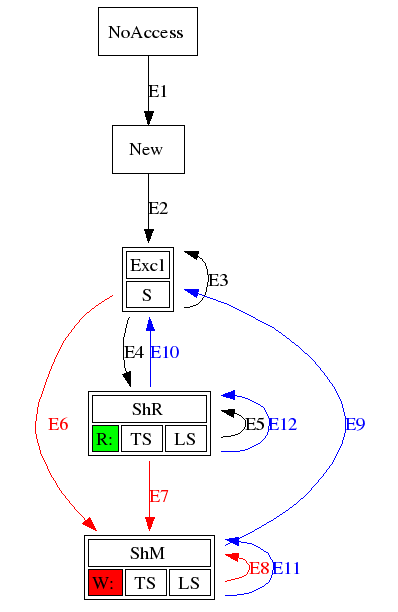
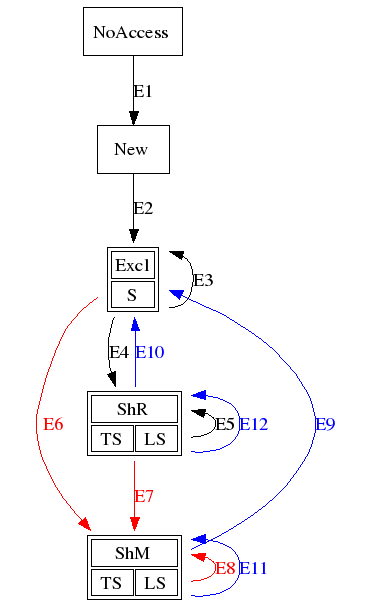
git-svn-id: http://data-race-test.googlecode.com/svn/trunk@122 93a3164d-3a44-0410-8ae5-4baa038b0729

diff --git a/helgrind/hg_main.c b/helgrind/hg_main.c
@@ -169,6 +169,9 @@ static Int  clo_trace_level = 0;
    SCE_{THREADS,LOCKS,BIGRANGE,ACCESS,LAOG}. */
 static Int clo_sanity_flags = 0;
 
+
+static Bool clo_use_msm_prop1 = False; // use prop1 memory state machine. 
+
 /* This has to do with printing error messages.  See comments on
    announce_threadset() and summarise_threadset().  Perhaps it
    should be a command line option. */
@@ -581,6 +584,7 @@ static WordFM* map_locks = NULL; /* WordFM LockAddr Lock* */
 
 /* The word-set universes for thread sets and lock sets. */
 static WordSetU* univ_tsets = NULL; /* sets of Thread* */
+static WordSetU* univ_ssets = NULL; /* sets of SegmentsID */
 static WordSetU* univ_lsets = NULL; /* sets of Lock* */
 static WordSetU* univ_laog  = NULL; /* sets of Lock*, for LAOG */
 
@@ -988,12 +992,6 @@ static inline SVal mk_SHVAL_Excl ( SegmentID tseg ) {
    return (((SVal)1) << 62) | (((SVal)tseg) << N_SEGID_SHIFT);
 }
 
-static inline SVal mk_SHVAL_ExclM ( SegmentID tseg ) {
-  return mk_SHVAL_Excl(tseg);
-}
-static inline SVal mk_SHVAL_ExclR ( SegmentID tseg ) {
-  return mk_SHVAL_Excl(tseg);
-}
 #define SHVAL_New      (((SVal)2)<<8)
 #define SHVAL_NoAccess (((SVal)1)<<8)
 #define SHVAL_Invalid  (((SVal)0)<<8)
@@ -1009,12 +1007,6 @@ static inline Bool is_SHVAL_Sh ( SVal w32 ) {
 }
 static inline Bool is_SHVAL_Excl ( SVal w32 ) {
    return (w32 >> 62) == 1; 
-}
-static inline Bool is_SHVAL_ExclM ( SVal w32 ) {
-  return is_SHVAL_Excl(w32);
-}
-static inline Bool is_SHVAL_ExclR ( SVal w32 ) {
-  return is_SHVAL_Excl(w32);
 }
 static inline Bool is_SHVAL_New ( SVal w32 ) {
    return w32 == SHVAL_New;
@@ -1055,6 +1047,91 @@ static inline WordSetID un_SHVAL_Sh_lset ( SVal w32 ) {
    tl_assert(is_SHVAL_Sh(w32));
    return (w32 >> N_LSID_SHIFT) & N_LSID_MASK;
 }
+
+// ---------------- prop1 ------------------
+// Proposal1: http://code.google.com/p/data-race-test/wiki/MSMProp1
+//
+//
+//   10SSSSSSSSSSSSSSSSSSSSSSSSrrrrrrrrrrrrrrLLLLLLLLLLLLLLLLLLLLLLLL Read
+//   11SSSSSSSSSSSSSSSSSSSSSSSSrrrrrrrrrrrrrrLLLLLLLLLLLLLLLLLLLLLLLL Write
+//     \_______ 24 ___________/              \________ 24 __________/
+// 
+//   0000000000000000000000000000000000000000000000000000001000000000 New
+//   0000000000000000000000000000000000000000000000000000000100000000 NoAccess
+//   0000000000000000000000000000000000000000000000000000000000000000 Invalid
+//   \______________________________64______________________________/
+//
+//   r - reserved bits 
+//   S - segment set bits 
+//   L - lock set bits 
+
+//------------- segment set, lock set --------------
+
+const int SEGMENT_SET_BITS = 24;
+const int LOCK_SET_BITS    = 24;
+
+typedef struct { // attempt to improve type-safety and readability. 
+  UWord x;
+}SegmentSet;
+
+static inline Bool prop1_SS_valid (SegmentSet ss) {
+  return ss.x < (1ULL << SEGMENT_SET_BITS);
+}
+
+typedef struct { // attempt to improve type-safety and readability. 
+  WordSet x;
+}LockSet;
+
+static inline Bool prop1_LS_valid (LockSet ls) {
+  return ls.x < (1ULL << LOCK_SET_BITS);
+}
+
+
+static inline SVal prop1_mk_SHVAL_RW (Bool is_w, SegmentSet ss, LockSet ls) {
+  tl_assert(prop1_SS_valid(ss));
+  tl_assert(prop1_LS_valid(ls));
+  return (1ULL << 63) 
+      |  ((SVal)is_w << 62) 
+      |  ((SVal)ss.x << (62-SEGMENT_SET_BITS)) 
+      |  ((SVal)ls.x);
+}
+static inline SVal prop1_mk_SHVAL_R (SegmentSet ss, LockSet ls) {
+  return prop1_mk_SHVAL_RW(False, ss, ls);
+}
+static inline SVal prop1_mk_SHVAL_W (SegmentSet ss, LockSet ls) {
+  return prop1_mk_SHVAL_RW(True, ss, ls);
+}
+
+static inline SegmentSet prop1_get_SHVAL_SS (SVal sv) {
+  SegmentSet ss;
+  int shift = 62 - SEGMENT_SET_BITS;
+  int mask  = (1 << SEGMENT_SET_BITS) - 1;
+  ss.x = (sv >> shift) & mask;
+  tl_assert(prop1_SS_valid(ss));
+  return ss;
+}
+static inline LockSet prop1_get_SHVAL_LS (SVal sv) {
+  LockSet ls;
+  ls.x = sv & ((1ULL << LOCK_SET_BITS) - 1);
+  tl_assert(prop1_LS_valid(ls));
+  return ls;
+}
+
+static inline Bool prop1_is_SHVAL_RW (SVal sv) {
+  return (sv >> 63) != 0;
+} 
+static inline Bool prop1_is_SHVAL_R (SVal sv) {
+  tl_assert(prop1_is_SHVAL_RW(sv));
+  return ((sv >> 62) & 1) == 0;
+}
+static inline Bool prop1_is_SHVAL_W (SVal sv) {
+  tl_assert(prop1_is_SHVAL_RW(sv));
+  return ((sv >> 62) & 1) == 1;
+}
+
+
+// ---------------------- end prop1 ---------------
+
 
 
 /*----------------------------------------------------------------*/
@@ -1274,12 +1351,8 @@ static void show_shadow_w32 ( /*OUT*/Char* buf, Int nBuf, SVal w32 )
                    un_SHVAL_ShR_tset(w32), un_SHVAL_ShR_lset(w32));
    }
    else
-   if (is_SHVAL_ExclM(w32)) {
-      VG_(sprintf)(buf, "ExclM(%u)", un_SHVAL_Excl(w32));
-   }
-   else
-   if (is_SHVAL_ExclR(w32)) {
-      VG_(sprintf)(buf, "ExclR(%u)", un_SHVAL_Excl(w32));
+   if (is_SHVAL_Excl(w32)) {
+      VG_(sprintf)(buf, "Excl(%u)", un_SHVAL_Excl(w32));
    }
    else
    if (is_SHVAL_New(w32)) {
@@ -1321,12 +1394,11 @@ void show_shadow_w32_for_user ( /*OUT*/Char* buf, Int nBuf, SVal w32 )
    if (is_SHVAL_Excl(w32)) {
       SegmentID segid  = un_SHVAL_Excl(w32);
       Segment*  mb_seg = map_segments_maybe_lookup(segid);
-      char wr = is_SHVAL_ExclM(w32) ? 'W' : 'R';
       if (mb_seg && mb_seg->thr && is_sane_Thread(mb_seg->thr)) {
-         VG_(sprintf)(buf, "Exclusive%c(thr#%d)", wr, 
+         VG_(sprintf)(buf, "Exclusive(thr#%d)", 
                       mb_seg->thr->errmsg_index);
       } else {
-         VG_(sprintf)(buf, "Exclusive%c(segid=%u)", wr, un_SHVAL_Excl(w32));
+         VG_(sprintf)(buf, "Exclusive(segid=%u)", un_SHVAL_Excl(w32));
       }
    }
    else
@@ -1479,6 +1551,10 @@ static void initialise_data_structures ( void )
    univ_tsets = HG_(newWordSetU)( hg_zalloc, hg_free, 8/*cacheSize*/ );
    tl_assert(univ_tsets != NULL);
 
+   tl_assert(univ_ssets == NULL);
+   univ_ssets = HG_(newWordSetU)( hg_zalloc, hg_free, 8/*cacheSize*/ );
+   tl_assert(univ_ssets != NULL);
+
    tl_assert(univ_lsets == NULL);
    univ_lsets = HG_(newWordSetU)( hg_zalloc, hg_free, 8/*cacheSize*/ );
    tl_assert(univ_lsets != NULL);
@@ -1518,7 +1594,7 @@ static void initialise_data_structures ( void )
       complaining) */
    tl_assert( sizeof(__bus_lock) == 4 );
    shadow_mem_set8( NULL/*unused*/, __bus_lock_Lock->guestaddr, 
-                                    mk_SHVAL_ExclM(segid) );
+                                    mk_SHVAL_Excl(segid) );
    shmem__set_mbHasLocks( __bus_lock_Lock->guestaddr, True );
 
    all__sanity_check("initialise_data_structures");
@@ -3108,6 +3184,71 @@ static void msm__show_state_change ( Thread* thr_acc, Addr a, Int szB,
    }
 }
 
+//----------------------- prop1 -----------------
+// See http://code.google.com/p/data-race-test/wiki/MSMProp1 
+// for description. 
+//
+// This routine is not (yet) optimized for performance. 
+static SVal prop1_memory_state_machine(
+    Bool is_w, Thread* thr, Addr a, SVal sv_old, Int sz)
+{
+  int i;
+  // SVal sv_new = SHVAL_Invalid;
+  SVal sv_new = sv_old;
+  tl_assert(is_sane_Thread(thr));
+
+  // NoAccess
+  if (is_SHVAL_NoAccess(sv_old)) {
+    // TODO: complain
+    return sv_old;
+  }
+
+  // New
+  if (is_SHVAL_New(sv_old)) {
+    LockSet ls;
+    SegmentSet ss;
+    ls.x = is_w ? add_BHL(thr->locksetA)
+                :         thr->locksetW;
+
+    ss.x = HG_(singletonWS)(univ_ssets, thr->csegid);
+
+    return prop1_mk_SHVAL_RW(is_w, ss, ls);
+  }
+
+
+  // Read or Write
+  tl_assert(prop1_is_SHVAL_RW(sv_old));
+  Bool was_w       = prop1_is_SHVAL_W(sv_old);
+  SegmentSet oldSS = prop1_get_SHVAL_SS(sv_old);
+  LockSet    oldLS = prop1_get_SHVAL_LS(sv_old);
+  SegmentID  currS = thr->csegid;
+  // bit vector that stores HB(oldSS[i],S).
+  // Obviously, it does not work with segment sets with >= 64 segments (FIXME). 
+  ULong hb_mask = 0; 
+  int oldSS_size = HG_(cardinalityWS)(univ_ssets, oldSS.x);
+  tl_assert(oldSS_size < 64);
+
+  // compute hb_mask
+  for (i = 0; i < oldSS_size; i++) {
+    SegmentID S = HG_(ElementOfWS)(univ_ssets, oldSS.x, i);
+    if(S == currS 
+       || map_segments_lookup(S)->thr == thr
+       || happens_before(S, currS)) {
+      hb_mask &= 1ULL << i;
+    }
+  }
+
+  // hb_all is true iff HB(oldSS,S)
+  Bool hb_all = hb_mask == ((1ULL << oldSS_size) - 1);
+
+
+
+  return sv_new; 
+}
+
+//----------------------- end prop1 -----------------
+
+
 
 /* Here are some MSM stats from startup/shutdown of OpenOffice.
 
@@ -3142,6 +3283,8 @@ static
 SVal msm__handle_read ( Thread* thr_acc, Addr a, SVal wold, Int szB )
 {
    SVal wnew = SHVAL_Invalid;
+   if (clo_use_msm_prop1) 
+     return prop1_memory_state_machine(False, thr_acc, a, wold, szB);
 
    tl_assert(is_sane_Thread(thr_acc));
 
@@ -3166,7 +3309,7 @@ SVal msm__handle_read ( Thread* thr_acc, Addr a, SVal wold, Int szB )
       }
       if (happens_before(segid_old, thr_acc->csegid)) {
          /* -> Excl(segid-of-this-thread) */
-         wnew = mk_SHVAL_ExclR(thr_acc->csegid);
+         wnew = mk_SHVAL_Excl(thr_acc->csegid);
          stats__msm_read_Excl_transfer++;
          goto changed;
       }
@@ -3241,7 +3384,7 @@ SVal msm__handle_read ( Thread* thr_acc, Addr a, SVal wold, Int szB )
    /* New */
    if (is_SHVAL_New(wold)) {
       /* read New -> Excl(segid) */
-      wnew = mk_SHVAL_ExclR( thr_acc->csegid);
+      wnew = mk_SHVAL_Excl( thr_acc->csegid);
       stats__msm_read_New_to_Excl++;
       goto changed;
    } 
@@ -3278,6 +3421,8 @@ static
 SVal msm__handle_write ( Thread* thr_acc, Addr a, SVal wold, Int szB )
 {
    SVal wnew = SHVAL_Invalid;
+   if (clo_use_msm_prop1) 
+     return prop1_memory_state_machine(True, thr_acc, a, wold, szB);
 
    tl_assert(is_sane_Thread(thr_acc));
 
@@ -3286,7 +3431,7 @@ SVal msm__handle_write ( Thread* thr_acc, Addr a, SVal wold, Int szB )
    /* New */
    if (LIKELY(is_SHVAL_New(wold))) {
       /* write New -> Excl(segid) */
-      wnew = mk_SHVAL_ExclM( thr_acc->csegid );
+      wnew = mk_SHVAL_Excl( thr_acc->csegid );
       stats__msm_write_New_to_Excl++;
       goto changed;
    }
@@ -3312,7 +3457,7 @@ SVal msm__handle_write ( Thread* thr_acc, Addr a, SVal wold, Int szB )
       }
       if (happens_before(segid_old, thr_acc->csegid)) {
          /* -> Excl(segid-of-this-thread) */
-         wnew = mk_SHVAL_ExclM(thr_acc->csegid);
+         wnew = mk_SHVAL_Excl(thr_acc->csegid);
          stats__msm_write_Excl_transfer++;
          goto changed;
       }
@@ -3404,8 +3549,7 @@ SVal msm__handle_write ( Thread* thr_acc, Addr a, SVal wold, Int szB )
                     HG_(cardinalityWS(univ_tsets, tset_new)));
         if (HG_(isSingletonWS)( univ_tsets, tset_new, (Word)thr_acc )) {
           /* This word returns to Excl state */
-          wnew = 1 ? mk_SHVAL_ExclM(thr_acc->csegid)
-              : mk_SHVAL_ExclR(thr_acc->csegid);
+          wnew = mk_SHVAL_Excl(thr_acc->csegid);
         } else {
           wnew = 1 ? mk_SHVAL_ShM(tset_new, lset_new)
               : mk_SHVAL_ShR(tset_new, lset_new);
@@ -3985,7 +4129,6 @@ Bool sequentialise_CacheLine ( /*OUT*/SVal* dst, Word nDst, CacheLine* src )
    return anyShared;
 }
 
-extern void zoo();
 static __attribute__((noinline)) void cacheline_wback ( UWord wix )
 {
    Word        i, j;
@@ -5198,6 +5341,7 @@ static void shadow_mem_make_NoAccess ( Thread* thr, Addr aIN, SizeT len )
      HG_(initIterFM)( map_shmem );
      while (HG_(nextIterFM)( map_shmem,
                              (Word*)&ga, (Word*)&sm )) {
+        Bool anySh = False;
         tl_assert(sm);
         stats_SMs++;
         /* Skip this SecMap if the summary bit indicates it is safe to
@@ -5205,7 +5349,6 @@ static void shadow_mem_make_NoAccess ( Thread* thr, Addr aIN, SizeT len )
         if (!sm->mbHasShared)
            continue;
         stats_SMs_scanned++;
-        Bool anySh = False;
         initSecMapIter( &itr );
         while (stepSecMapIter( &w32p, &itr, sm )) {
            Bool isM;
@@ -5877,6 +6020,7 @@ void evh__HG_PTHREAD_JOIN_POST ( ThreadId stay_tid, Thread* quit_thr )
 
    stats_SMs = stats_SMs_scanned = stats_reExcls = 0;
    HG_(initIterFM)( map_shmem );
+   if (clo_use_msm_prop1 == False)
    while (HG_(nextIterFM)( map_shmem,
                            (Word*)&ga, (Word*)&sm )) {
       SecMapIter itr;
@@ -5925,8 +6069,7 @@ void evh__HG_PTHREAD_JOIN_POST ( ThreadId stay_tid, Thread* quit_thr )
          }
          if (HG_(isSingletonWS)( univ_tsets, tset_new, (Word)thr_s )) {
             /* This word returns to Excl state */
-            wnew = isM ? mk_SHVAL_ExclM(thr_s->csegid)
-                       : mk_SHVAL_ExclR(thr_s->csegid);
+            wnew = mk_SHVAL_Excl(thr_s->csegid);
             stats_reExcls++;
          } else {
             wnew = isM ? mk_SHVAL_ShM(tset_new, lset_old)
@@ -8795,6 +8938,9 @@ static Bool hg_process_cmd_line_option ( Char* arg )
       clo_happens_before = 1;
    else if (VG_CLO_STREQ(arg, "--happens-before=all"))
       clo_happens_before = 2;
+
+   else if (VG_CLO_STREQ(arg, "--prop1"))
+      clo_use_msm_prop1 = True;
 
    else if (VG_CLO_STREQ(arg, "--gen-vcg=no"))
       clo_gen_vcg = 0;
